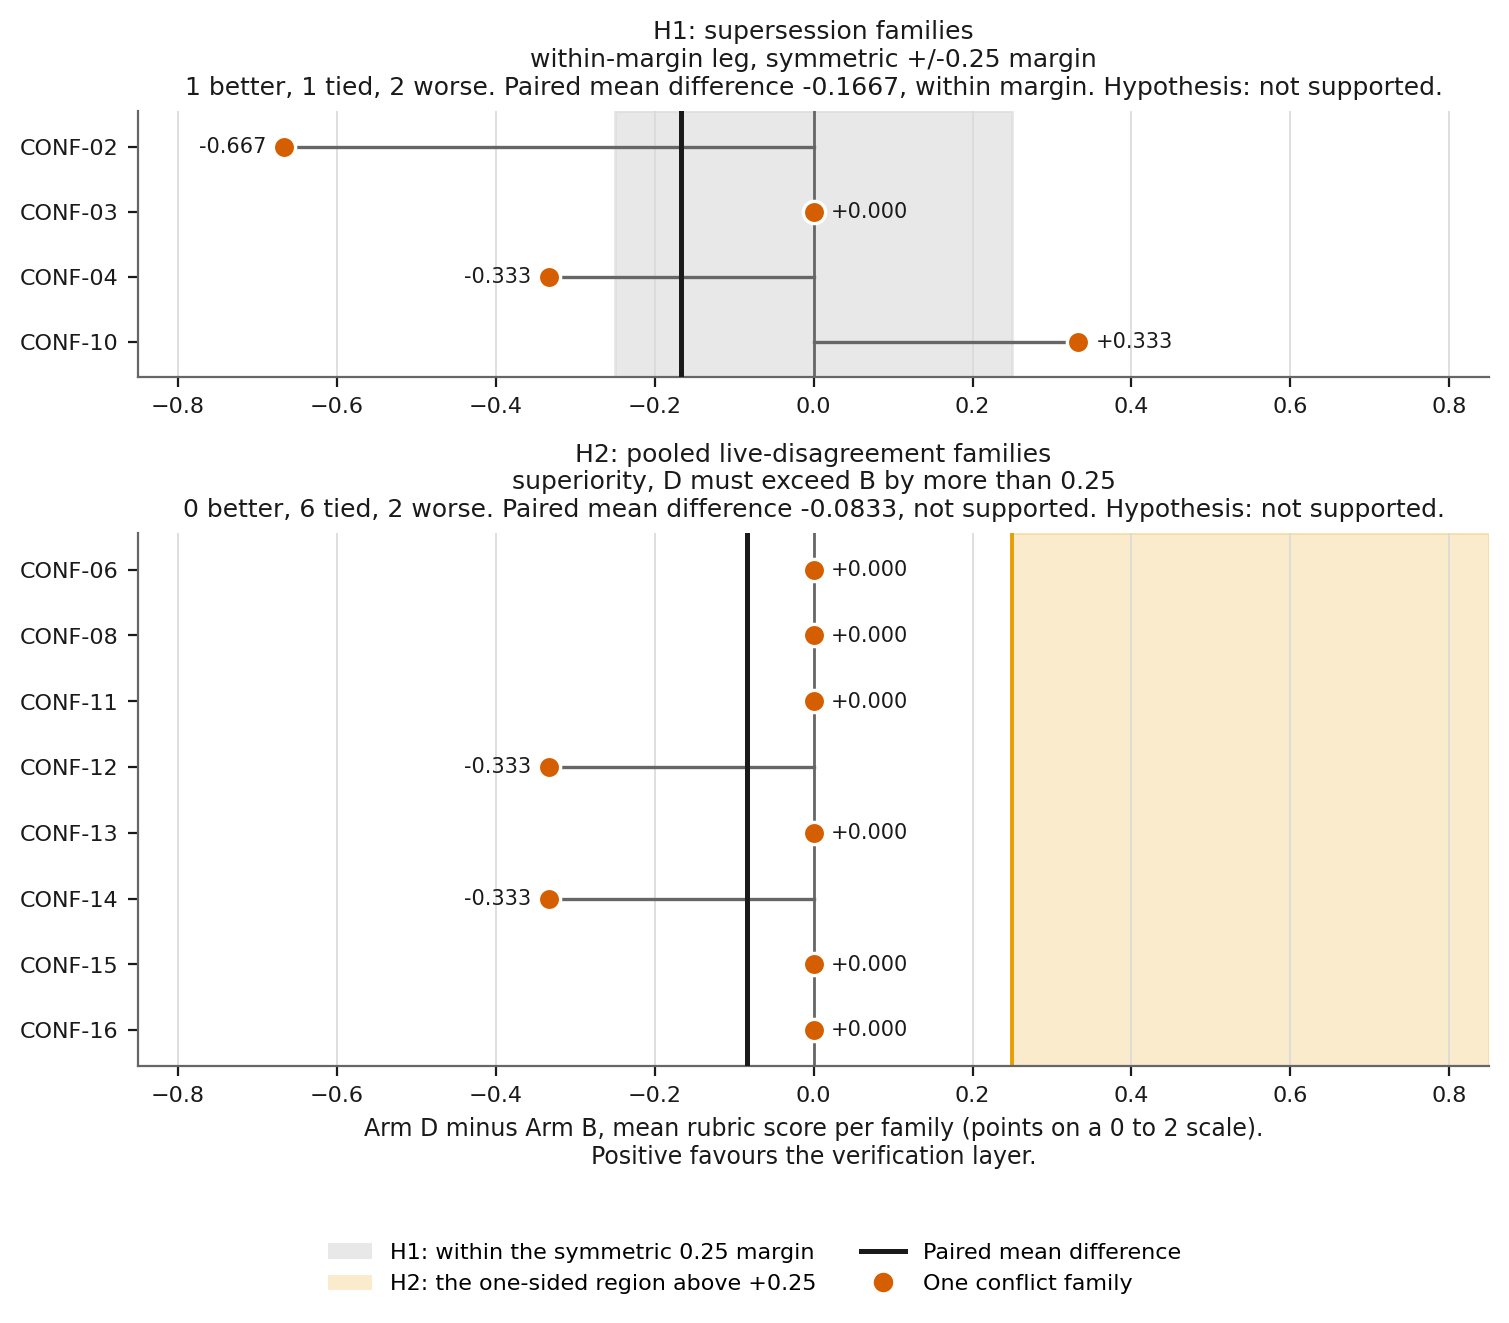
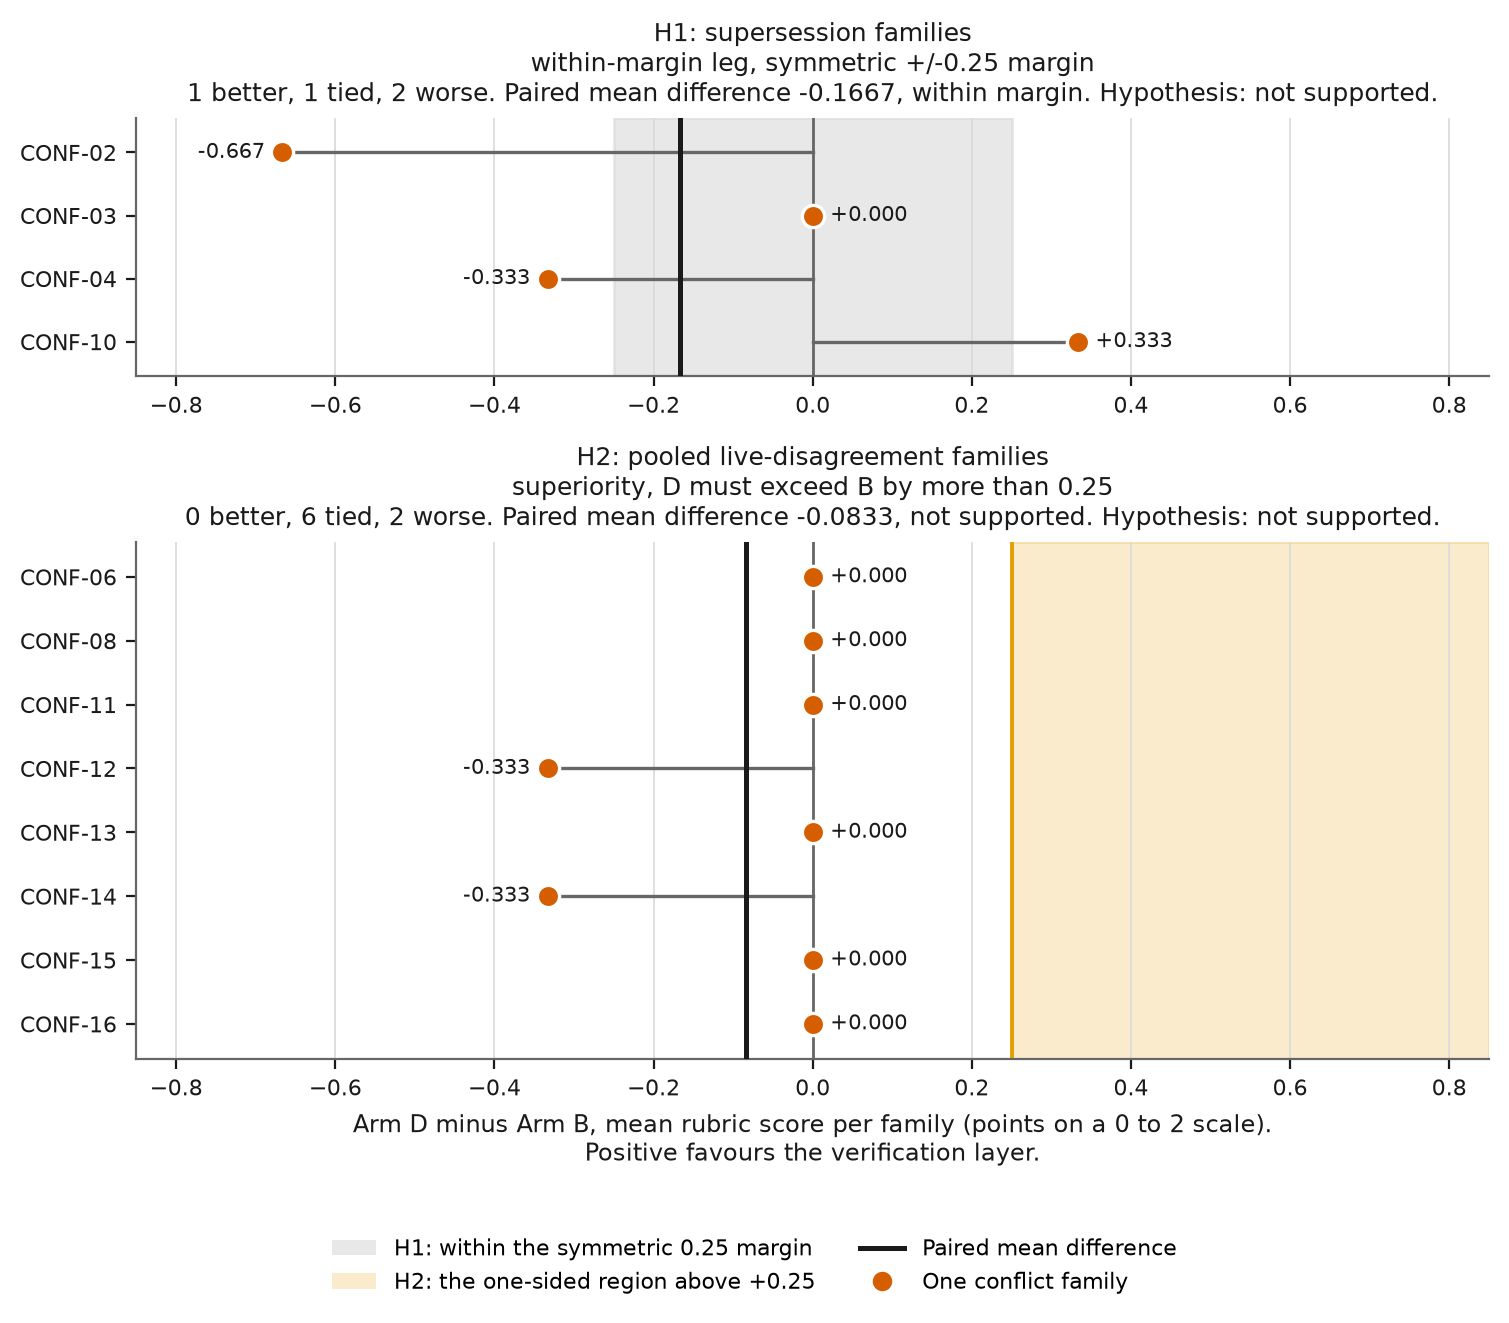
Redraw the figures on the machine that owns the repository
Amendment 1.30.11. The committed images were drawn in a cloud container at
matplotlib 3.10.9 and could not be reproduced by the author, so the byte
identity check skipped for the only person who would ever regenerate them. A
check that skips where it matters is close to no check.

All eight are redrawn here under the environment recorded in
FIGURE_ENVIRONMENT.json and pinned as the figures extra. FreeType is the
substantive difference.

diff --git a/docs/PREREGISTRATION.md b/docs/PREREGISTRATION.md
@@ -4345,6 +4345,23 @@ So the rule is:
   repository**, so that this check is live rather than skipped for the person
   who would actually regenerate them.
 
+All eight figures were accordingly redrawn on the authoring machine and
+recommitted: Python 3.13.5, matplotlib 3.11.1, FreeType 2.14.3, NumPy 2.5.1,
+recorded in `FIGURE_ENVIRONMENT.json` and pinned as the `figures` extra. The
+FreeType difference is the substantive one - matplotlib 3.11 bundles 2.14.3
+where 3.10 bundled 2.6.1 - and it is what moved the glyphs. Every value plotted
+is unchanged, because the figure scripts read them from `hypotheses.json` and
+the performance reports and compute nothing. Six of the eight came out at
+identical pixel dimensions; `fig_4_3` gained six pixels of height and `fig_4_4`
+ten of height and fourteen of width, because `savefig.bbox="tight"` crops to
+text extents and the extents moved. All eight were inspected after redrawing:
+no label is clipped, no axis is rescaled, and every number matches the tables in
+Chapter 4.
+
+The check is now live on the machine that owns the repository and skips
+elsewhere, which is the right way round. It skipped on the container that drew
+the previous set, naming both versions.
+
 ## 1.30.12 State
 
 | | |
